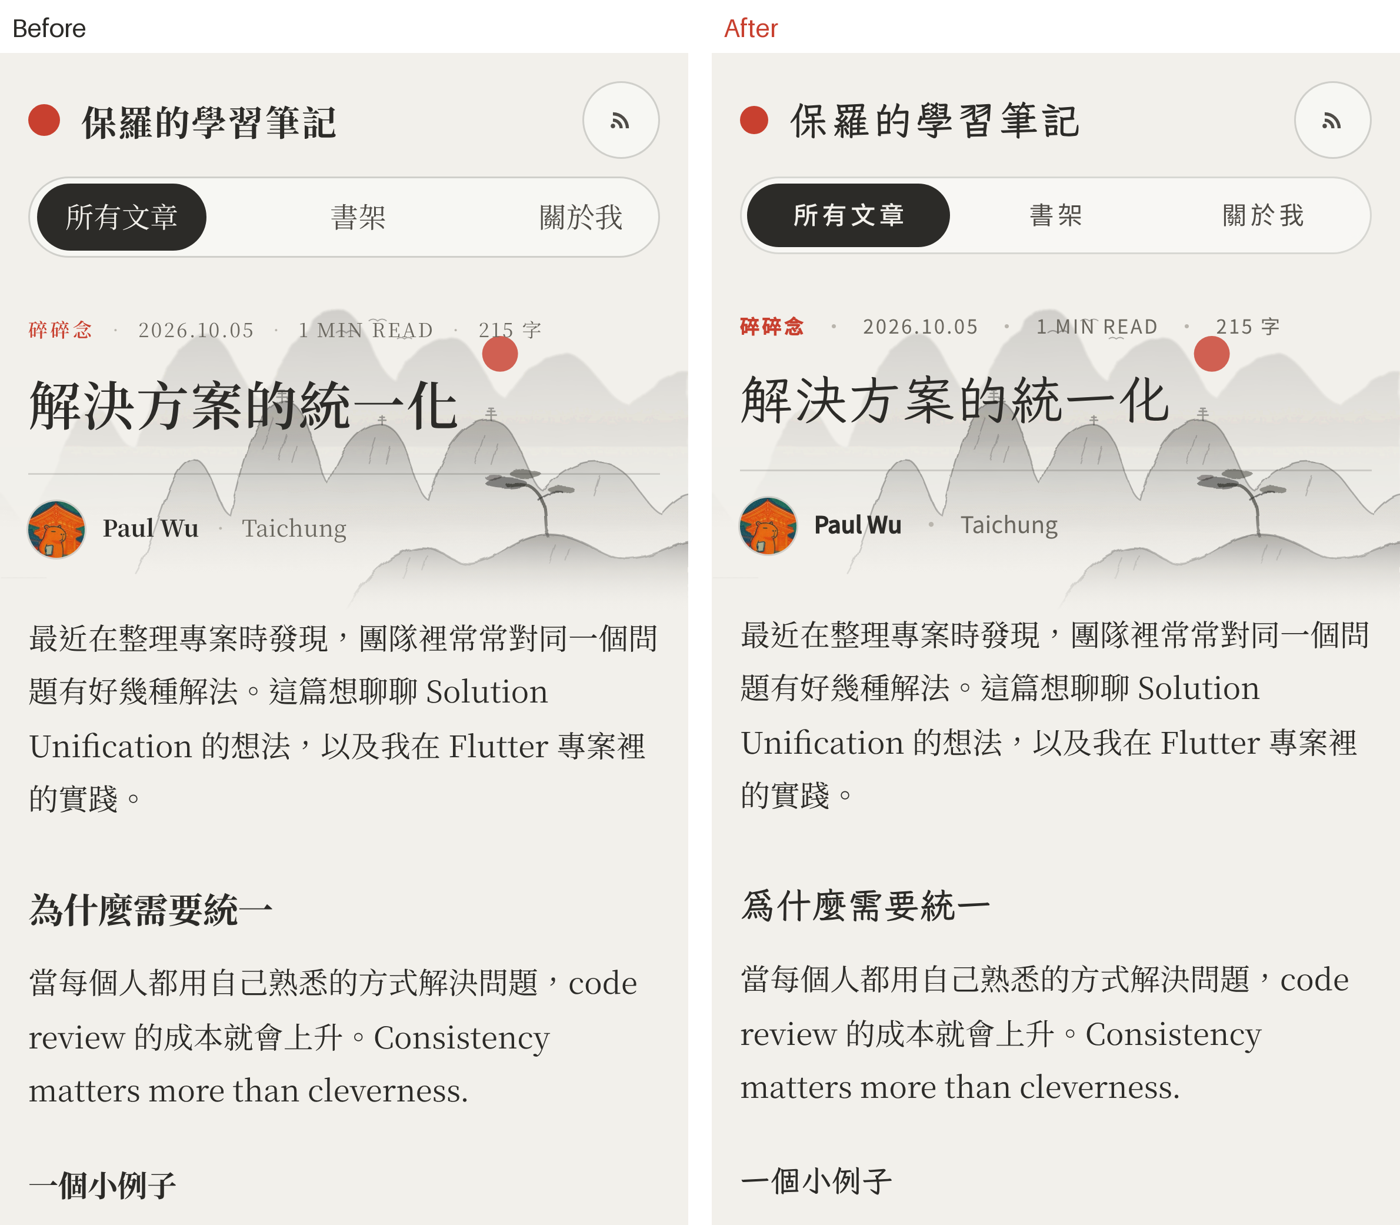
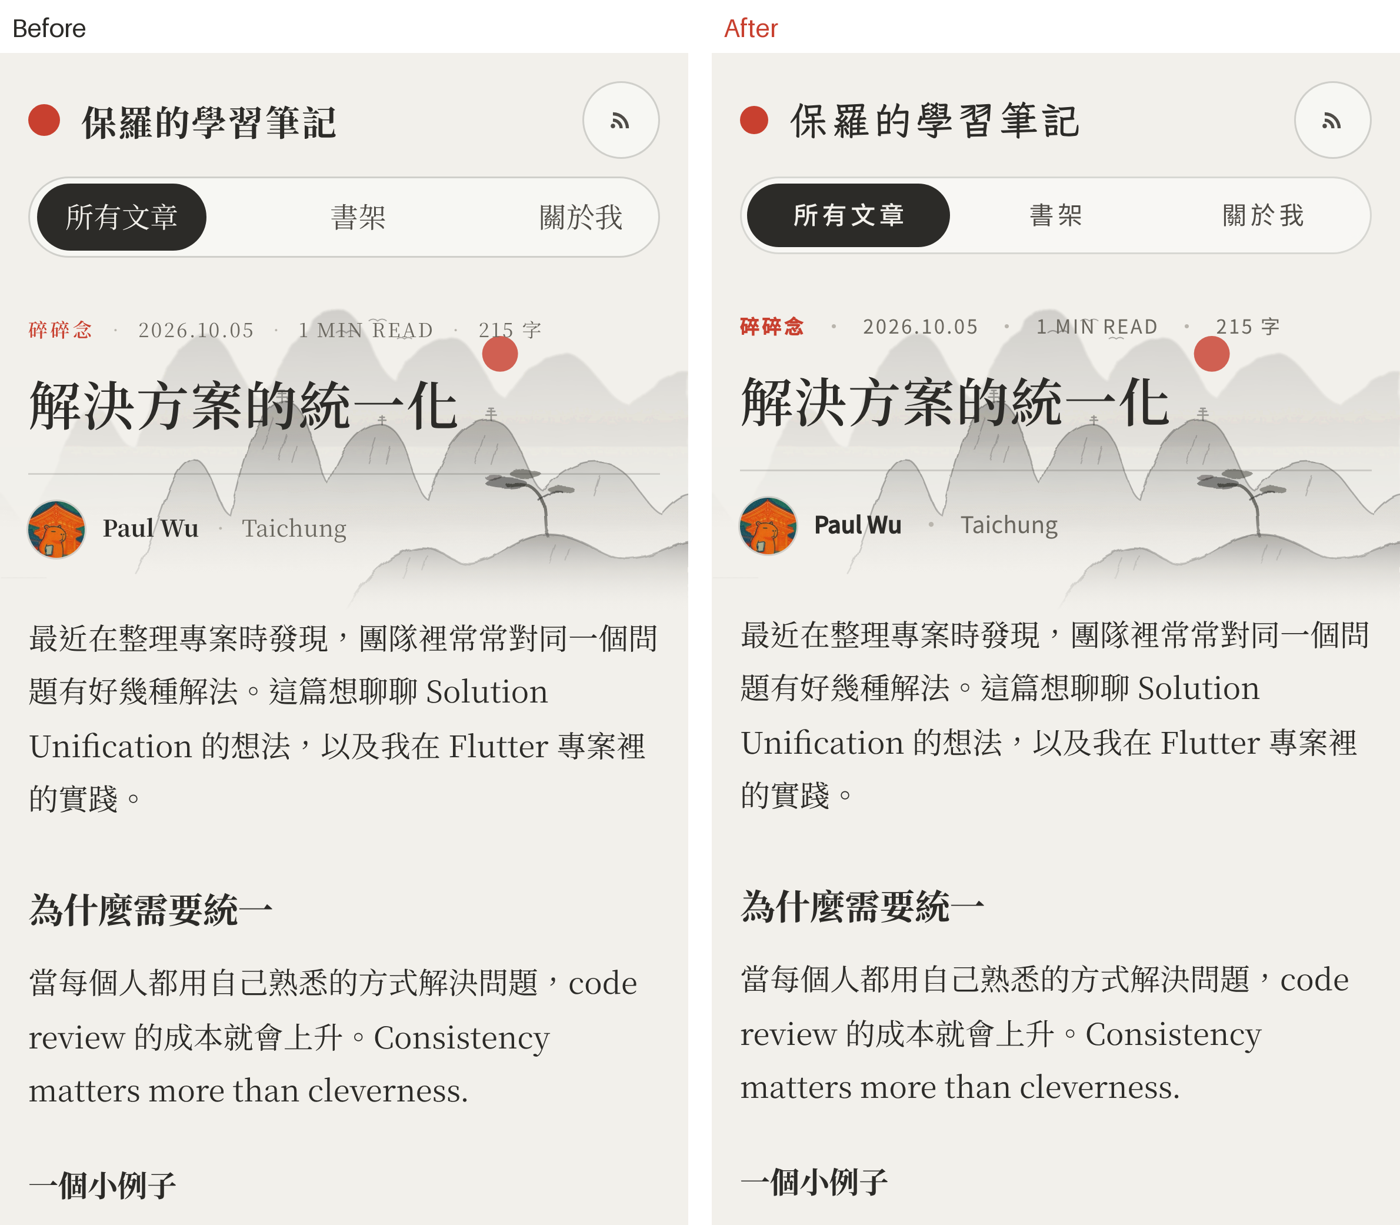
feat(blog): keep the brush-written 楷 for the blog's name alone
Headings (article titles, years, the about page, prose h2-h5) go back to
Noto Serif TC; the masthead tabs and the UI type stay as they were.

Claude-Session: https://claude.ai/code/session_01P5GtzBuCqPWSePjXe4BSzX

Changed region(s): [[0.5221, 0.7135, 0.7064, 0.7755], [0.5221, 0.3102, 0.8293, 0.3412], [0.5529, 0.9306, 0.645, 0.9927]]

diff --git a/src/styles/archive.css b/src/styles/archive.css
@@ -17,7 +17,7 @@
 /* — a category page's heading — */
 .archive-sheet .arc-scope { display: flex; flex-wrap: wrap; align-items: baseline; gap: 6px 20px; margin-bottom: 24px; }
 .archive-sheet .arc-back { flex-basis: 100%; font-family: var(--font-ui); font-size: 13px; letter-spacing: 0.08em; color: var(--muted); text-decoration: none; }
-.archive-sheet .arc-scope h1 { margin: 0; font-family: var(--font-display); font-size: 44px; font-weight: 400; line-height: 1.2; letter-spacing: 0.12em; }
+.archive-sheet .arc-scope h1 { margin: 0; font-size: 44px; font-weight: 300; line-height: 1.2; letter-spacing: 0.12em; }
 .archive-sheet .arc-scope-n { margin: 0; font-family: var(--font-ui); font-size: 13px; letter-spacing: 0.14em; color: var(--muted); }
 
 /* — 每季落筆: the heatmap on a pale card over the landscape — */
@@ -154,7 +154,7 @@
 }
 .archive-sheet .year-block[hidden] { display: none; }
 .archive-sheet .year-side { display: flex; flex-direction: column; gap: 8px; padding-top: 6px; }
-.archive-sheet .yr-n { font-family: var(--font-display); font-size: 44px; font-weight: 400; line-height: 1; letter-spacing: 0.02em; }
+.archive-sheet .yr-n { font-size: 44px; font-weight: 300; line-height: 1; letter-spacing: 0.04em; }
 .archive-sheet .yr-l { font-family: var(--font-ui); font-size: 12px; letter-spacing: 0.16em; color: var(--muted); }
 
 .archive-sheet .rows { min-width: 0; }
@@ -172,11 +172,9 @@
 .archive-sheet .archive-row[hidden] { display: none; }
 .archive-sheet .row-date { font-family: var(--font-ui); font-size: 12px; letter-spacing: 0.04em; color: var(--muted); font-variant-numeric: tabular-nums; }
 .archive-sheet .row-title {
-  font-family: var(--font-display);
-  font-size: 19px;
-  font-weight: 400;
-  line-height: 1.5;
-  letter-spacing: 0.02em;
+  font-size: 18px;
+  font-weight: 600;
+  line-height: 1.45;
   text-wrap: pretty;
   transition: color 0.15s;
 }
@@ -210,7 +208,7 @@
 @media (max-width: 760px) {
   .archive-sheet .year-block { grid-template-columns: minmax(0, 1fr); gap: 4px; }
   .archive-sheet .year-side { flex-direction: row; align-items: baseline; gap: 12px; padding-top: 0; }
-  .archive-sheet .yr-n { font-size: 32px; }
+  .archive-sheet .yr-n { font-size: 30px; }
 
   .archive-sheet .archive-row,
   .archive-sheet.is-scoped .archive-row {
@@ -225,7 +223,7 @@
   .archive-sheet .row-cat { grid-area: cat; }
   .archive-sheet.is-scoped .row-cat { display: none; }
   .archive-sheet .row-min { grid-area: min; }
-  .archive-sheet .row-title { grid-area: title; font-size: 18px; }
+  .archive-sheet .row-title { grid-area: title; font-size: 16px; }
 }
 
 /* a phone: the chips run to the screen's left edge; an open search takes a line of its own */

diff --git a/src/styles/desk.css b/src/styles/desk.css
@@ -14,7 +14,7 @@
   --brass-dark: #6e5228;
   --brass-ink: #2a1d0e;
 
-  /* Three voices. Display: a brush-written 楷 for the blog's name and every heading, the ink study's own hand.
+  /* Three voices. Display: a brush-written 楷 for the blog's name alone, the ink study's own hand (a seal, not a typeface for every heading).
      Reading: 宋 for the words, as before (its own Latin sits better beside the Chinese than Source Serif 4's larger one).
      UI: a quiet 黑 for the chrome (tabs, chips, dates, counts), so it steps back from the words. */
   --font-display: "LXGW WenKai TC", "Kaiti TC", "BiauKai", "DFKai-SB", "Noto Serif TC", serif;
@@ -59,7 +59,7 @@ body.desk-body {
   --color-accent-800: #7f2a22;
   --color-accent-900: #51201b;
 
-  --font-heading: var(--font-display);
+  --font-heading: var(--font-reading);
   --font-body: var(--font-reading);
   --font-heading-weight: 600;
 
@@ -311,7 +311,7 @@ html[data-weather="night"] .ink-land .w-night { display: block; }
 }
 .desk-body .paper + .paper { margin-top: 40px; }
 .desk-body .masthead .rules { display: none; }
-.desk-body .masthead h1 { font-family: var(--font-display); font-weight: 400; letter-spacing: 0.02em; line-height: 1.25; margin: 0; }
+.desk-body .masthead h1 { font-weight: 600; letter-spacing: 0.02em; line-height: 1.25; margin: 0; }
 
 /* — Broadsheet's buttons, made pills — */
 .desk-body .btn {

diff --git a/src/styles/reading.css b/src/styles/reading.css
@@ -349,7 +349,7 @@ html[data-arrive="door-open"] .shelf-room { animation: shelf-rise 1s cubic-bezie
 .pick-cover img[hidden] { display: none; }
 .pick-body { flex: 1; min-width: 0; display: flex; flex-direction: column; gap: 12px; }
 .pick-meta { margin: 0; font-size: 13px; letter-spacing: 0.12em; color: #6a675f; }
-.pick-body h2 { margin: 0; font-family: var(--font-display); font-size: 24px; font-weight: 700; line-height: 1.45; text-wrap: balance; }
+.pick-body h2 { margin: 0; font-size: 24px; font-weight: 600; line-height: 1.45; text-wrap: balance; }
 .pick-cats { display: flex; flex-wrap: wrap; gap: 6px 14px; margin: 0; font-size: 13px; color: #4f4c47; }
 .pick-actions { display: flex; flex-wrap: wrap; gap: 10px; margin-top: auto; padding-top: 10px; }
 .pick-notes,

diff --git a/src/styles/prose.css b/src/styles/prose.css
@@ -33,9 +33,9 @@
 /* — headings — */
 .prose :is(h2, h3, h4, h5) {
   position: relative;
-  font-family: var(--font-display);
+  font-family: var(--font-reading);
   font-weight: 700;
-  letter-spacing: 0.02em;
+  letter-spacing: -0.01em;
   line-height: 1.32;
   color: var(--color-text);
   scroll-margin-top: var(--anchor-offset);
